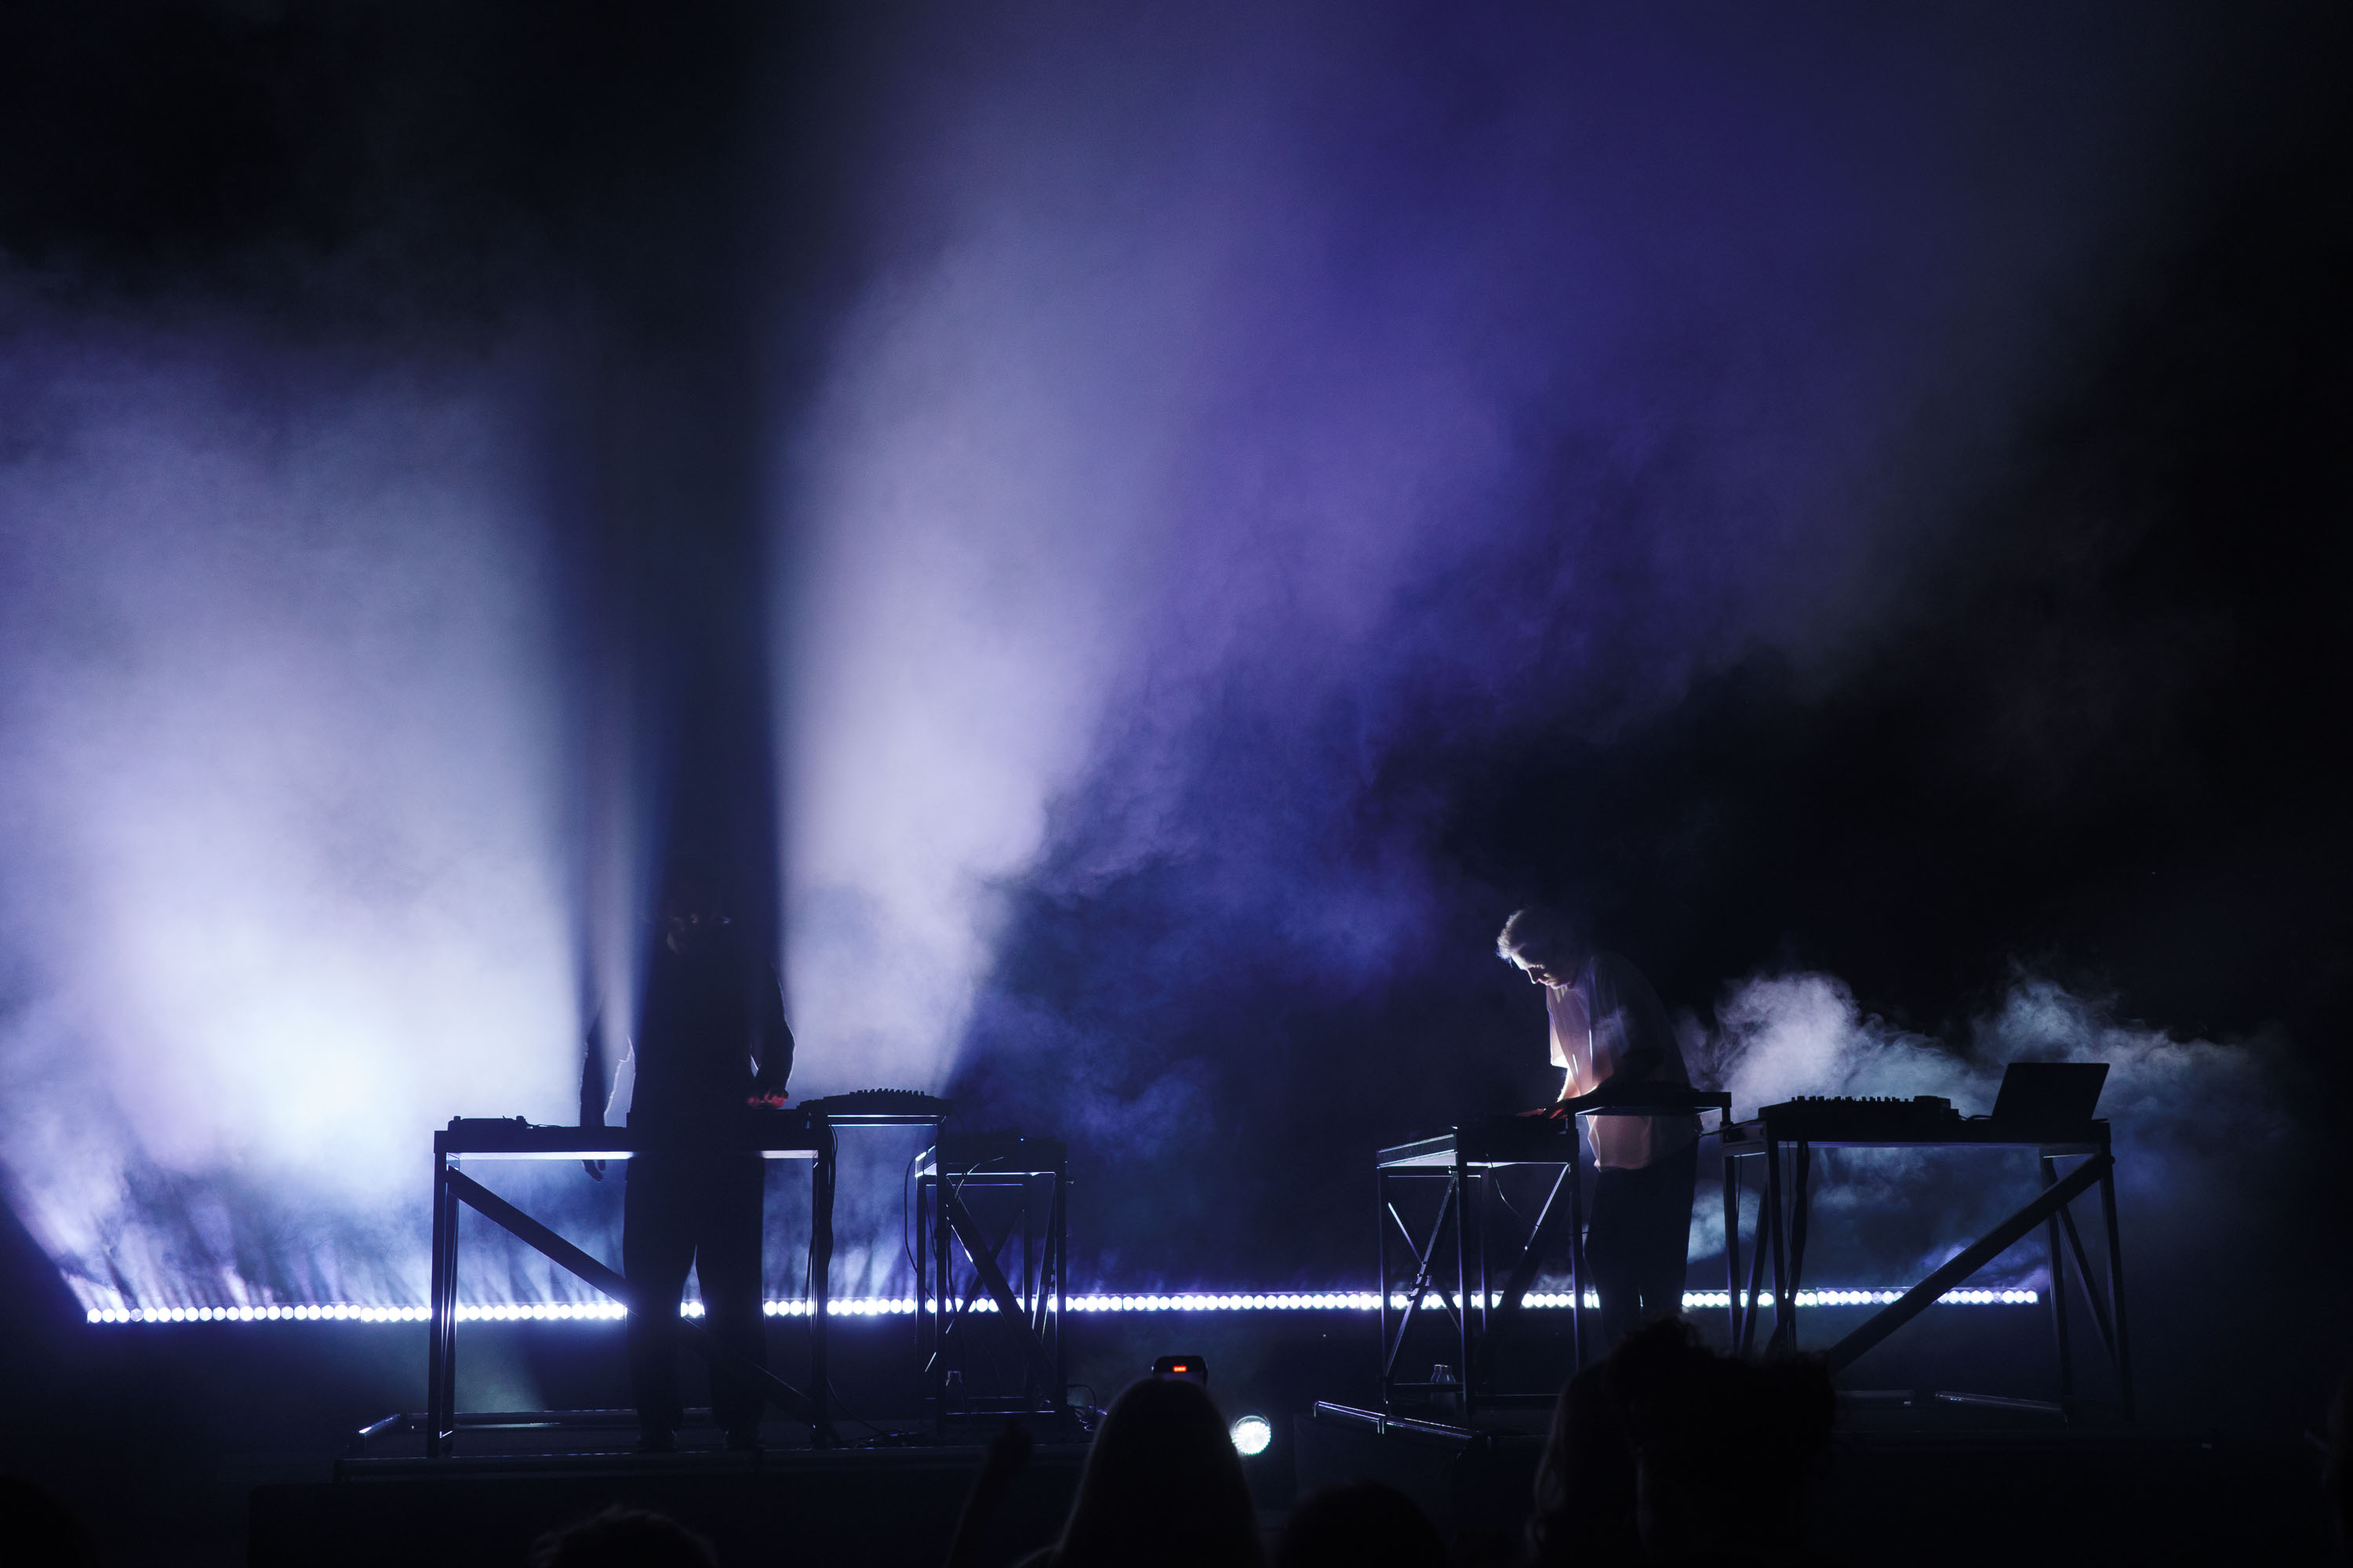
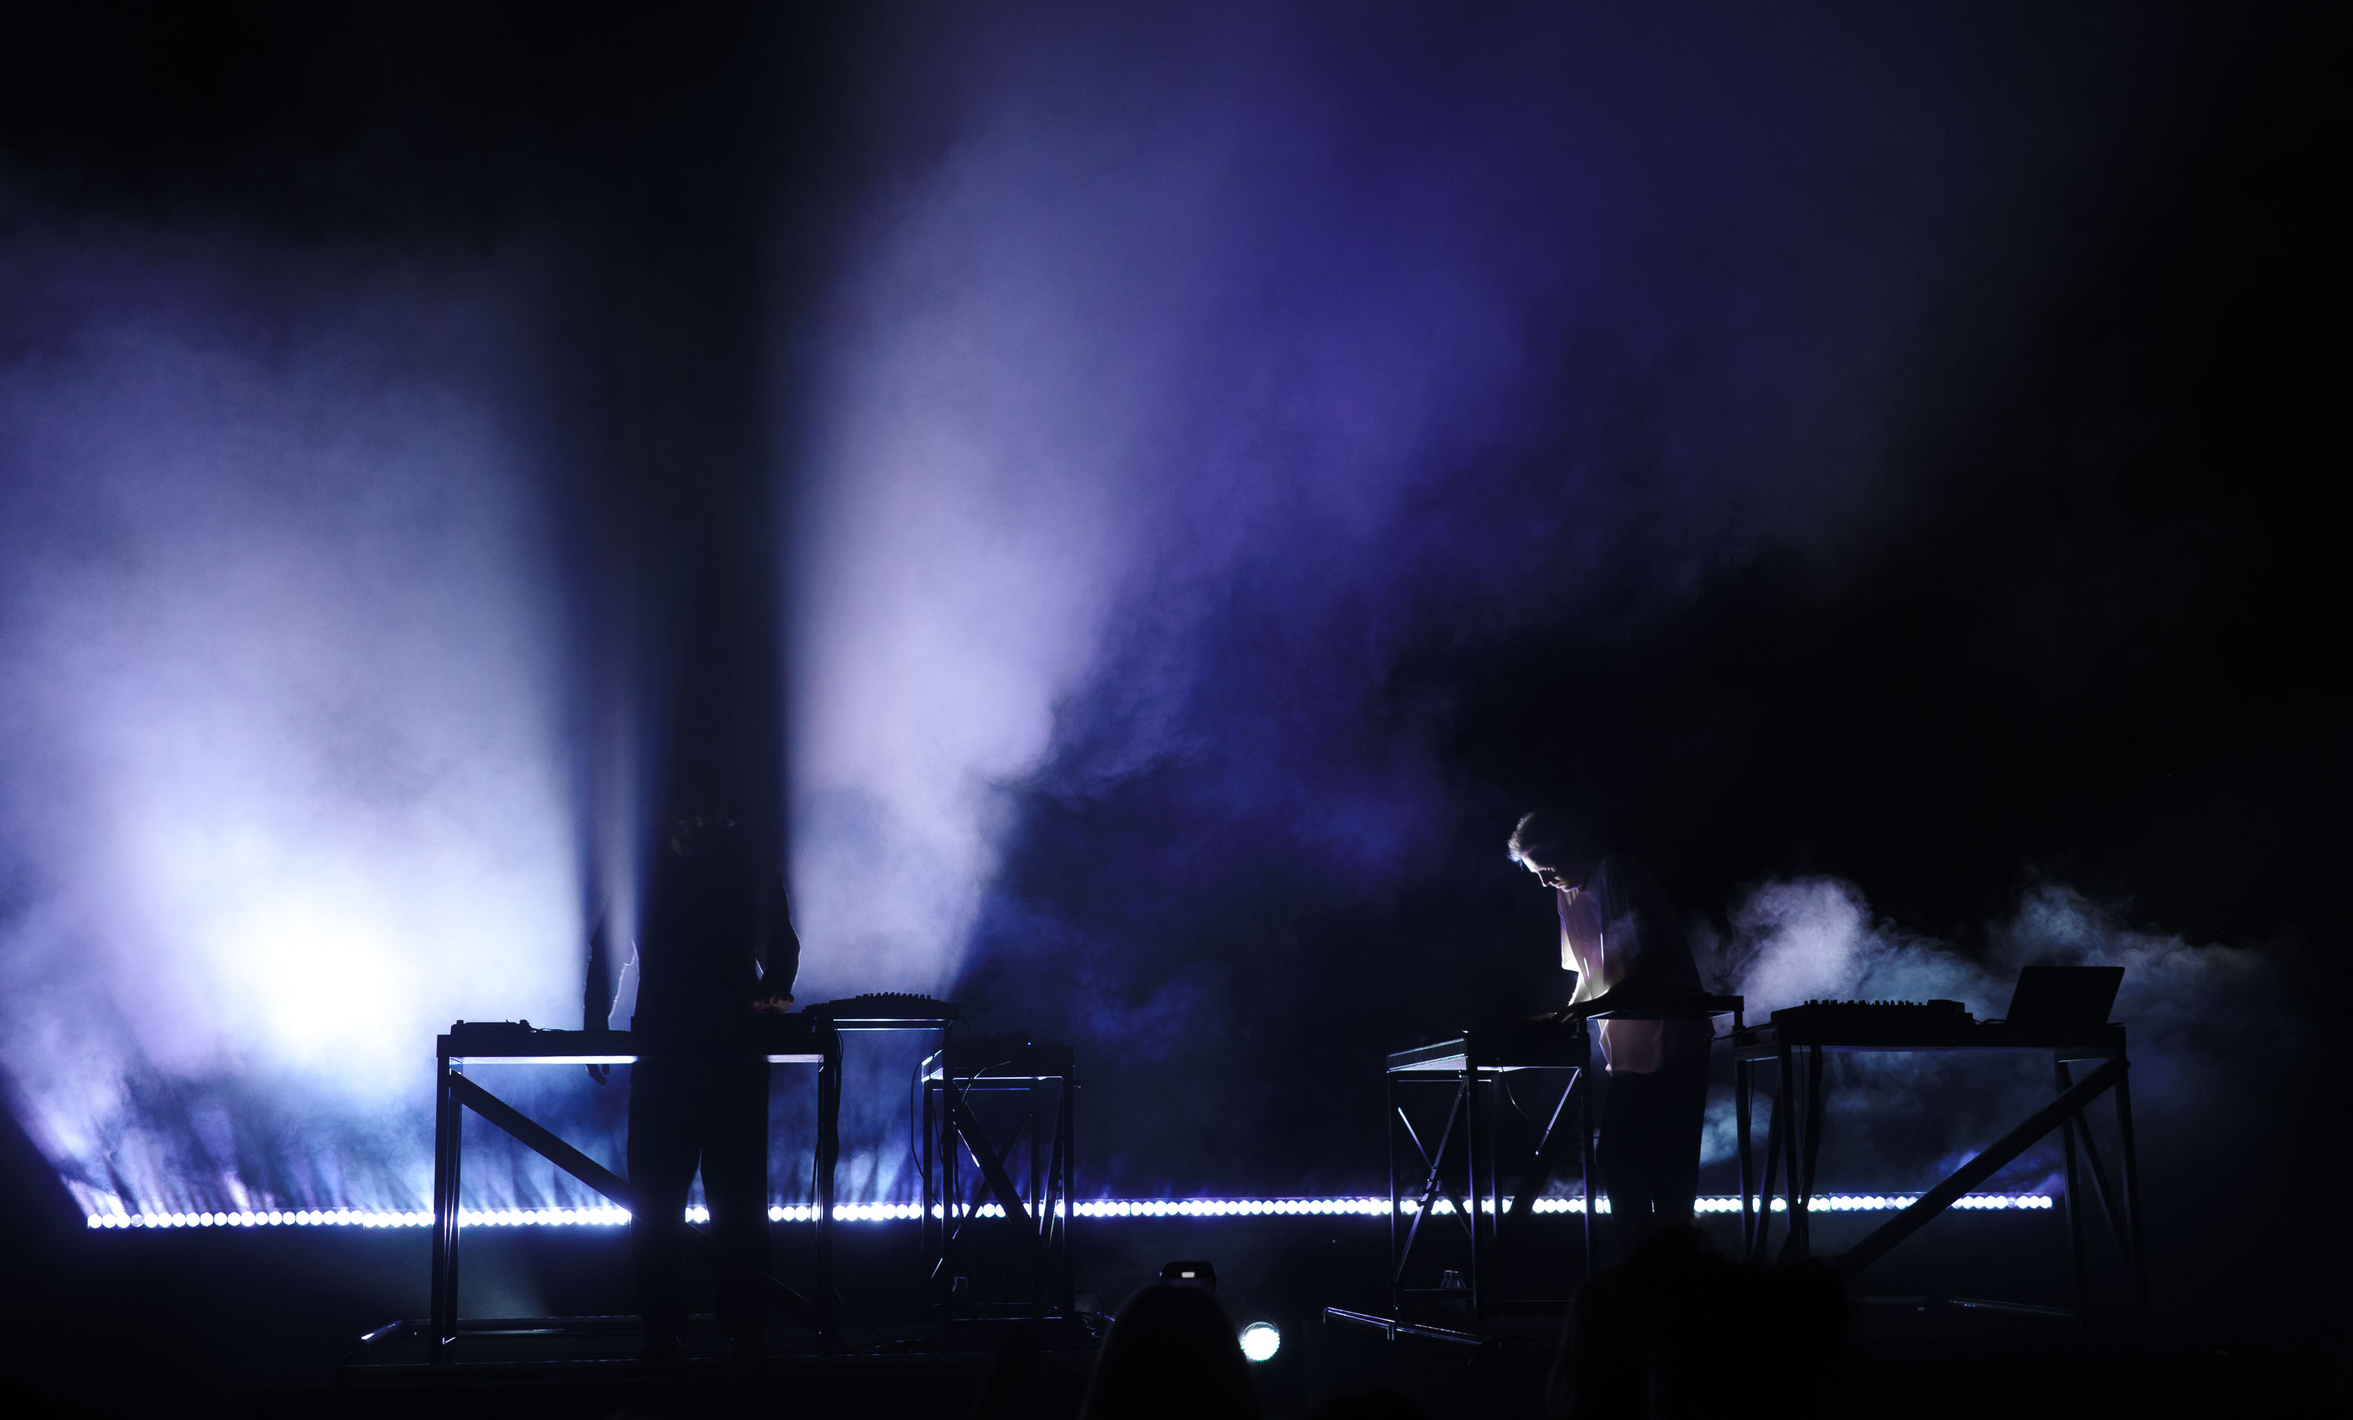
Let collections set a cover, and update three photos
A collection's cover is still its first photo unless collection.json
names one with cover, which doesn't change the photo order. The concerts
collection now uses its second Tame Impala photo. Three photos are
re-cropped.

diff --git a/src/lib/rules.ts b/src/lib/rules.ts
@@ -86,6 +86,16 @@ function checkUnique(files: string[], owner: string) {
   }
 }
 
+/** The photo named by cover, which must be one of owner's photos, such as `Album "laos-2023"`. */
+function namedCover(owner: string, photos: Photo[], cover: string): Photo {
+  const named = photos.find((photo) => photo.file === cover);
+  if (!named)
+    throw new Error(
+      `${owner} has cover "${cover}", which isn't one of its photos`,
+    );
+  return named;
+}
+
 /** The photo named by cover, which must be one of the album's photos. Without a cover, the first landscape photo, else the first photo. */
 export function pickCover(
   id: string,
@@ -97,12 +107,7 @@ export function pickCover(
       photos.find((photo) => photo.image.width > photo.image.height) ??
       photos[0]
     );
-  const named = photos.find((photo) => photo.file === cover);
-  if (!named)
-    throw new Error(
-      `Album "${id}" has cover "${cover}", which isn't one of its photos`,
-    );
-  return named;
+  return namedCover(`Album "${id}"`, photos, cover);
 }
 
 /** The album in albums/{id}/album.json, or undefined while it has no photos. */
@@ -144,7 +149,7 @@ export function buildAlbum(
   };
 }
 
-/** The collection in collections/{id}/collection.json, whose cover is its first photo. Its URL mustn't be one of albumIds, and it must have photos. */
+/** The collection in collections/{id}/collection.json, whose cover is the photo named by cover, else its first photo. Its URL mustn't be one of albumIds, and it must have photos. */
 export function buildCollection(
   id: string,
   data: CollectionData,
@@ -186,7 +191,10 @@ export function buildCollection(
     description: data.description ?? `${data.title} photos by ${AUTHOR}.`,
     unlisted: data.unlisted === true,
     photos,
-    cover: photos[0],
+    cover:
+      data.cover === undefined
+        ? photos[0]
+        : namedCover(`Collection "${id}"`, photos, data.cover),
   };
 }
 

diff --git a/src/lib/rules.test.ts b/src/lib/rules.test.ts
@@ -329,6 +329,29 @@ describe("buildCollection", () => {
       "R0002.jpg",
     );
   });
+
+  test("uses the photo named by cover without reordering its photos", () => {
+    const data = collection({
+      cover: "R0001.jpg",
+      photos: [{ file: "R0002.jpg" }, { file: "R0001.jpg" }],
+    });
+    const built = buildCollection("concerts", data, index, albumIds);
+    expect(built.cover.file).toBe("R0001.jpg");
+    expect(built.photos.map(({ file }) => file)).toEqual([
+      "R0002.jpg",
+      "R0001.jpg",
+    ]);
+  });
+
+  test("throws when cover names a photo that isn't in the collection", () => {
+    const data = collection({
+      cover: "R0009.jpg",
+      photos: [{ file: "R0002.jpg" }],
+    });
+    expect(() => buildCollection("concerts", data, index, albumIds)).toThrow(
+      `Collection "concerts" has cover "R0009.jpg", which isn't one of its photos`,
+    );
+  });
 });
 
 describe("countPhotos", () => {

diff --git a/src/content.config.ts b/src/content.config.ts
@@ -78,6 +78,9 @@ const handPicked = defineCollection({
     $schema,
     title,
     description: text.describe("Shown under the title."),
+    cover: text.describe(
+      "The file name of the home page cover photo, with its extension. It must be one of the collection's photos. Defaults to the first photo.",
+    ),
     unlisted: z
       .boolean()
       .optional()

diff --git a/README.md b/README.md
@@ -149,10 +149,11 @@ A collection page, such as /concerts, shows hand-picked photos, in the same layo
 ```
 
 - Each photo's file can be in the collection's own folder or in any album. The page shows photos in the order listed.
+- cover is the file of the home page cover photo, as in an album, and must be one of the collection's photos. It doesn't change the order. It defaults to the first photo.
 - Each photo has the same fields as in an album: file, and an optional caption and location. collection.json is the only source of a collection's text; nothing comes from the album, even for an album photo, so an album photo can read differently on its album page.
 - A concert photo that also belongs in a personal album goes in that album, and the collection lists it. A concert-only photo goes in collections/concerts/.
 - Collections are linked from the home page, unless the collection has "unlisted": true, in which case it's only reachable by its URL.
-- The build fails if a collection has the same URL as an album, two photo files share a name, a JSON file lists a photo that doesn't exist or lists one twice, a collection has no photos, an album's cover isn't one of its photos, an album ends before it starts, or any JSON file doesn't match its schema in src/content.config.ts. Photos that no JSON file lists are left out, with a warning.
+- The build fails if a collection has the same URL as an album, two photo files share a name, a JSON file lists a photo that doesn't exist or lists one twice, a collection has no photos, an album's or collection's cover isn't one of its photos, an album ends before it starts, or any JSON file doesn't match its schema in src/content.config.ts. Photos that no JSON file lists are left out, with a warning.
 
 ## Captions and locations
 
